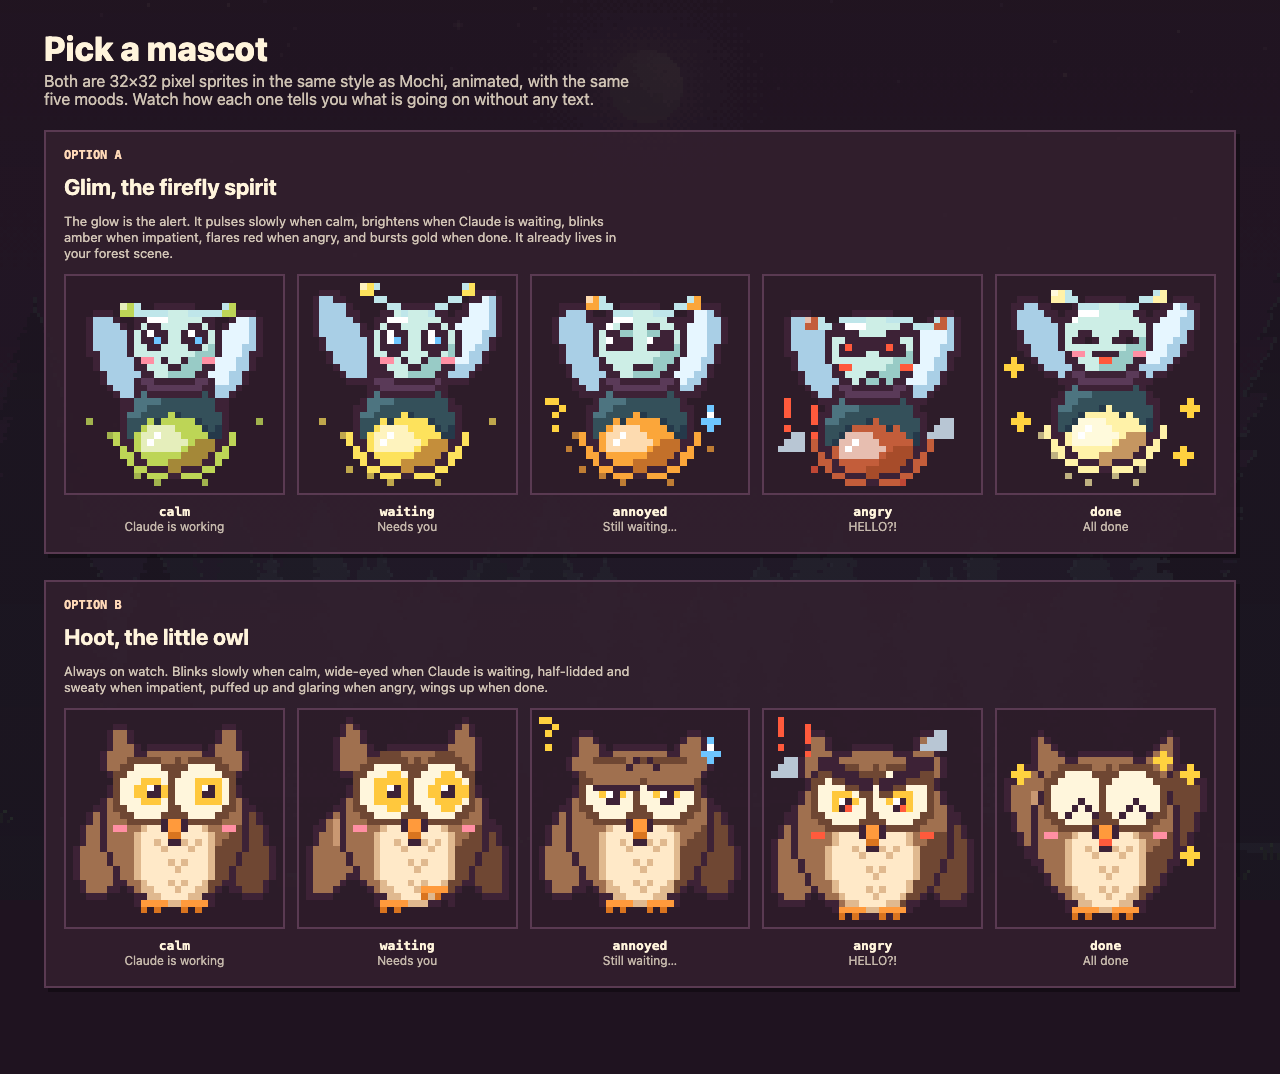
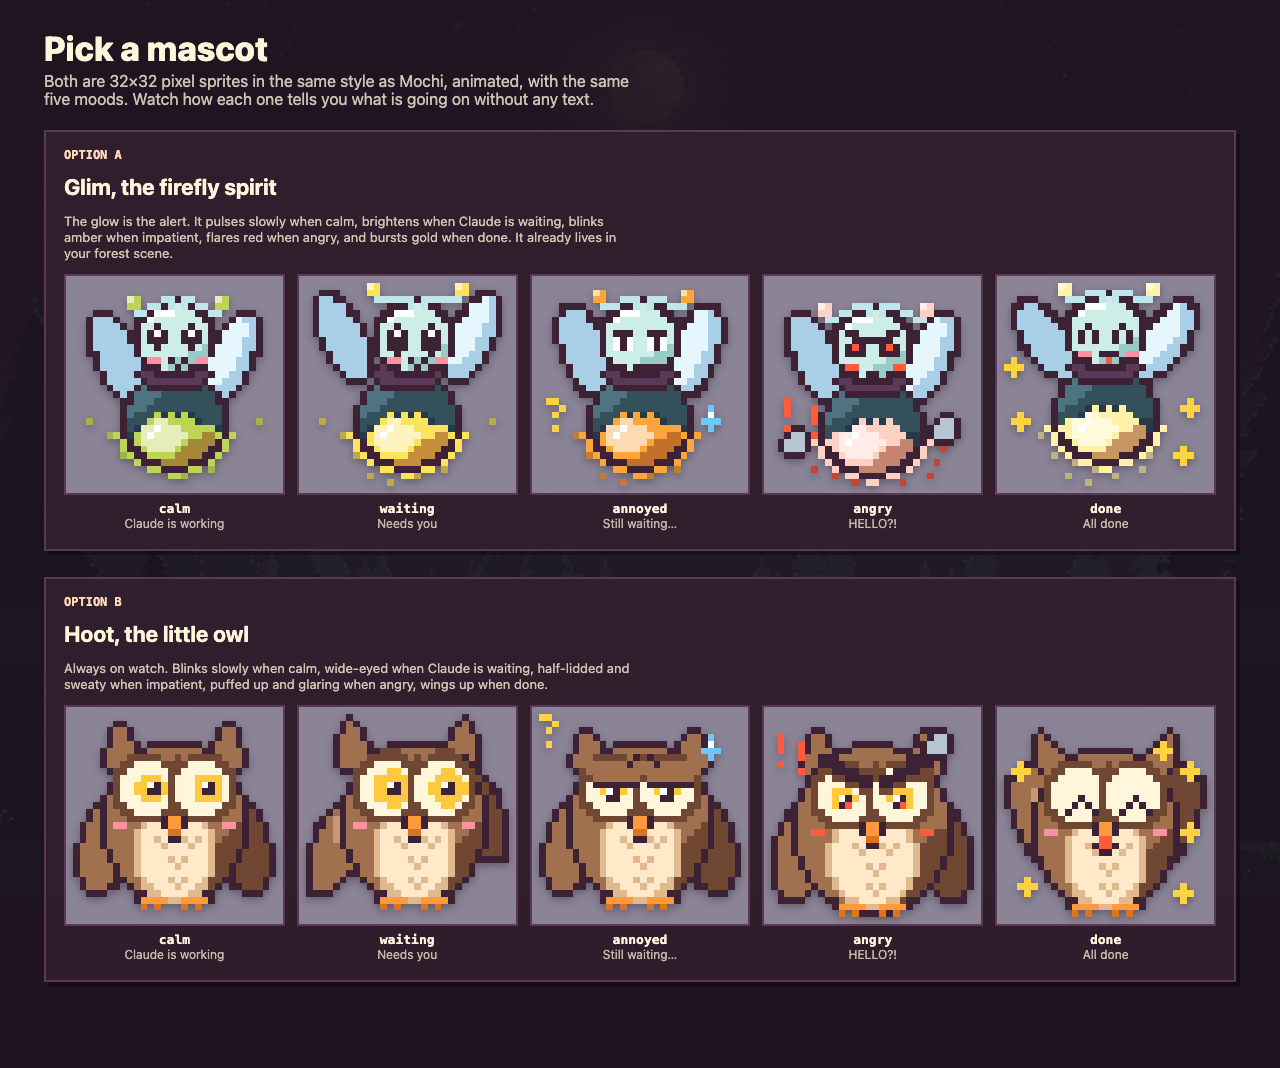
design: mascot round 4 prep, desktop-like preview, Glim/Hoot fixes

Changed region(s): [[0.0312, 0.1545, 0.9688, 0.4635], [0.0312, 0.5871, 0.9688, 0.8961], [0.0312, 0.0309, 0.4688, 0.1236]]

diff --git a/design/mascots/mascots.js b/design/mascots/mascots.js
@@ -50,7 +50,12 @@ class Canvas32 {
   }
   plus(x, y, c) { this.set(x, y, c); this.set(x - 1, y, c); this.set(x + 1, y, c); this.set(x, y - 1, c); this.set(x, y + 1, c); }
   sweat(x, y, c, hi) { this.set(x, y, c); this.set(x, y + 1, c); this.set(x - 1, y + 2, c); this.set(x, y + 2, c); this.set(x + 1, y + 2, c); this.set(x, y + 3, c); this.set(x, y + 1, hi); }
-  puff(x, y, c) { this.rect(x, y, 3, 2, c); this.rect(x + 1, y - 1, 2, 1, c); this.rect(x - 1, y + 1, 1, 1, c); }
+  puff(x, y, c) {   // a small cloud with a plum outline
+    const cells = [[x, y], [x + 1, y], [x + 2, y], [x, y + 1], [x + 1, y + 1], [x + 2, y + 1], [x + 1, y - 1], [x + 2, y - 1]];
+    const set = new Set(cells.map(p => p.join(',')));
+    cells.forEach(([cx2, cy2]) => [[1, 0], [-1, 0], [0, 1], [0, -1]].forEach(([dx, dy]) => { if (!set.has((cx2 + dx) + ',' + (cy2 + dy))) this.set(cx2 + dx, cy2 + dy, 1); }));
+    cells.forEach(([cx2, cy2]) => this.set(cx2, cy2, c));
+  }
 }
 
 // ------------------------------------------------------------------ shared moods
@@ -75,7 +80,8 @@ function drawFirefly(mood, t) {
   const rate = { calm: 1.3, waiting: 3.6, annoyed: 6.5, angry: 11, done: 5 }[mood];
   const pulse = 0.5 + 0.5 * Math.sin(t * rate);
   const done = mood === 'done', angry = mood === 'angry', annoyed = mood === 'annoyed', waiting = mood === 'waiting';
-  const lamp = mix('#6a6238', glow, done ? 1 : waiting ? 0.8 + 0.2 * pulse : 0.3 + 0.7 * pulse);
+  const hotFlash = angry && Math.floor(t * 7) % 2 === 0;
+  const lamp = angry ? (hotFlash ? '#ffd0c4' : '#ff4a3a') : mix('#6a6238', glow, done ? 1 : waiting ? 0.8 + 0.2 * pulse : 0.3 + 0.7 * pulse);
   const pal = [
     null, '#3d2236',
     '#cdeee6', '#ffffff', '#98cbc6',                    // 2 face, 3 face hi, 4 face shade
@@ -92,7 +98,7 @@ function drawFirefly(mood, t) {
   const sh = angry ? (Math.floor(t * 16) % 2 ? 1 : 0) : 0;
   const oy = bob, X = cx + sh;
   const hx = waiting ? 1 : 0;
-  const headCy = 11 + oy, thoraxCy = 16.4 + oy, absCy = 23 + oy;
+  const headCy = 10.2 + oy, thoraxCy = 15.4 + oy, absCy = 22.4 + oy;
 
   // ---- wings (behind). waiting: lifted and flared.
   const flap = Math.sin(t * (angry ? 46 : done ? 24 : mood === 'calm' ? 8 : 15)) > 0;
@@ -104,11 +110,11 @@ function drawFirefly(mood, t) {
       if (c.inRot(x, y, wcx, wcy, rx, ry, tilt)) c.set(x, y, 5);
       else if (c.inRot(x, y, wcx, wcy, rx + 1, ry + 1, tilt)) c.set(x, y, ink);
     }
-    for (let y = 0; y < N; y++) for (let x = 0; x < N; x++) if (c.get(x, y) === 5 && !c.inRot(x, y, wcx - side * 0.7, wcy - 0.7, rx - 0.6, ry - 0.8, tilt)) c.set(x, y, 6);
+    for (let y = 0; y < N; y++) for (let x = 0; x < N; x++) if (c.get(x, y) === 5 && !c.inRot(x, y, wcx - 0.8, wcy - 0.8, rx - 0.6, ry - 0.8, tilt)) c.set(x, y, 6);
   }
 
   // ---- abdomen: dark top, glowing bottom, one outline all the way round
-  const arx = 7, ary = 6.6;
+  const arx = 7, ary = 6.4;
   c.blob(X, absCy, arx, ary, 19, ink);
   for (let y = 0; y < N; y++) for (let x = 0; x < N; x++) if (c.get(x, y) === 19) {
     const dx = (x + 0.5 - X) / arx, dy = (y + 0.5 - absCy) / ary;
@@ -130,57 +136,53 @@ function drawFirefly(mood, t) {
 
   // ---- head: pale and round
   const hcx = X + hx;
-  c.blob(hcx, headCy, 5.9, 5.3, 2, ink);
+  c.blob(hcx, headCy, 5.2, 4.9, 2, ink);
   for (let y = 0; y < N; y++) for (let x = 0; x < N; x++) if (c.get(x, y) === 2) {
-    const dx = (x + 0.5 - hcx) / 5.9, dy = (y + 0.5 - headCy) / 5.3;
+    const dx = (x + 0.5 - hcx) / 5.2, dy = (y + 0.5 - headCy) / 4.9;
     if (dx * 0.6 + dy * 0.8 > 0.58) c.set(x, y, 4);
   }
-  c.rect(Math.round(hcx - 4), Math.round(headCy - 4), 3, 1, 3); c.set(Math.round(hcx - 5), Math.round(headCy - 3), 3);
+  c.rect(Math.round(hcx - 3), Math.round(headCy - 4), 3, 1, 3); c.set(Math.round(hcx - 4), Math.round(headCy - 3), 3);
 
-  // ---- antennae: light stalks from the top of the head to glowing tips
+  // ---- antennae: thin stalks rising from the top centre of the head, curving outward, with glowing bulbs
   const sway = Math.sin(t * 2.6) > 0.25 ? 1 : 0;
-  const up = waiting ? 2 : 0, droop = mood === 'calm' ? 1 : 0, back = angry ? 2 : 0;
+  const up = waiting ? 1 : 0, droop = mood === 'calm' ? 1 : 0, back = angry ? 1 : 0;
+  const topY = Math.round(headCy - 4.9);
   for (const side of [-1, 1]) {
-    const x0 = Math.round(hcx + side * 2.4), y0 = Math.round(headCy - 5.2);
-    const x1 = Math.round(hcx + side * (5.6 + sway + back)), y1 = 5 + oy + back - up + droop;
-    c.line(x0, y0, x1, y1, 23);
+    const x0 = Math.round(hcx + side * 1.2), x1 = Math.round(hcx + side * (4.6 + sway + back));
+    const y1 = 4 + oy + back - up + droop;
+    c.set(x0, topY, 23); c.set(x0 + side * (x0 === hcx ? 1 : 0), topY - 1, 23);
+    c.line(Math.round(hcx + side * 1.6), topY - 1, x1, y1 + 1, 23);
     const tx = side < 0 ? x1 - 1 : x1;
     c.rect(tx, y1 - 1, 2, 2, 7); c.set(tx, y1 - 1, pulse > 0.4 || done ? 8 : 7);
-    c.set(x1 + (side < 0 ? 1 : 0), y1 - 1, 23);   // stalk runs right into the tip
   }
 
-  // ---- face: big dark eyes on the pale face
-  const ey = Math.round(headCy - 3);
-  const eyeL = Math.round(hcx - 5), eyeR = Math.round(hcx + 1);
+  // ---- face: dark eyes straight on the pale face, one catchlight each
+  const ey = Math.round(headCy - 2.6);
+  const eyeL = Math.round(hcx - 4), eyeR = Math.round(hcx + 1);
   const blink = (mood === 'calm' && ((t % 3.6) < 0.14)) || (waiting && ((t % 2.6) < 0.12));
-  function eye(x, h) {
-    c.rect(x, ey, 4, h, ink); c.set(x, ey, 2); c.set(x + 3, ey, 2); c.set(x, ey + h - 1, 2); c.set(x + 3, ey + h - 1, 2);
-    c.set(x + 1, ey + 1, 10); c.set(x + 2, ey + 2, 12);
-    if (h > 4) c.set(x + 1, ey + 2, 10);
-  }
+  function eye(x, h) { c.rect(x, ey, 3, h, ink); c.set(x, ey, 2); c.set(x + 2, ey, 2); c.set(x, ey + h - 1, 2); c.set(x + 2, ey + h - 1, 2); c.set(x + 1, ey + 1, 10); if (h > 3) c.set(x + 1, ey + 2, ink); }
   for (const x of [eyeL, eyeR]) {
-    if (done) { c.set(x, ey + 3, ink); c.set(x + 1, ey + 2, ink); c.set(x + 2, ey + 2, ink); c.set(x + 3, ey + 3, ink); c.set(x + 1, ey + 3, ink); c.set(x + 2, ey + 3, 0); }
-    else if (blink) c.rect(x, ey + 2, 4, 1, ink);
-    else if (annoyed) { c.rect(x, ey + 2, 4, 2, ink); c.set(x, ey + 2, 10); c.rect(x - 0, ey + 1, 4, 1, 4); }
-    else if (angry) { c.rect(x, ey + 1, 4, 3, ink); c.set(x + 1, ey + 2, 14); c.set(x, ey + 1, 2); c.set(x + 3, ey + 1, 2); }
+    if (done) { c.set(x, ey + 2, ink); c.set(x + 1, ey + 1, ink); c.set(x + 2, ey + 2, ink); c.set(x, ey + 3, ink); c.set(x + 2, ey + 3, ink); }
+    else if (blink) c.rect(x, ey + 2, 3, 1, ink);
+    else if (annoyed) { c.rect(x, ey + 1, 3, 1, ink); c.rect(x, ey + 2, 3, 2, 10); c.rect(x + 1, ey + 2, 1, 2, ink); }   // flat lid line, a pupil showing underneath
+    else if (angry) { c.rect(x, ey + 1, 3, 3, ink); c.set(x + 1, ey + 2, 14); c.set(x, ey + 1, 2); c.set(x + 2, ey + 1, 2); }
     else eye(x, waiting ? 5 : 4);
   }
-  if (angry) { c.line(eyeL - 1, ey - 1, eyeL + 4, ey + 1, ink); c.line(eyeL - 1, ey, eyeL + 4, ey + 2, ink); c.line(eyeR + 4, ey - 1, eyeR - 1, ey + 1, ink); c.line(eyeR + 4, ey, eyeR - 1, ey + 2, ink); }
-  if (annoyed) { c.line(eyeL + 3, ey, eyeL, ey + 1, ink); c.line(eyeR, ey, eyeR + 3, ey + 1, ink); }
+  if (angry) { c.line(eyeL - 1, ey - 1, eyeL + 3, ey + 1, ink); c.line(eyeR + 3, ey - 1, eyeR - 1, ey + 1, ink); }
   const cheek = done || mood === 'calm' || waiting ? 11 : angry ? 14 : 0;
-  if (cheek) { c.rect(Math.round(hcx - 5), ey + 5, 2, 1, cheek); c.rect(Math.round(hcx + 4), ey + 5, 2, 1, cheek); }
+  if (cheek) { c.rect(Math.round(hcx - 4), ey + 5, 2, 1, cheek); c.rect(Math.round(hcx + 3), ey + 5, 2, 1, cheek); }
   const my = ey + 5, mx = Math.round(hcx);
-  if (done) { c.rect(mx - 2, my, 4, 1, ink); c.rect(mx - 1, my + 1, 2, 1, 14); }
+  if (done) { c.rect(mx - 1, my, 3, 1, ink); c.rect(mx, my + 1, 1, 1, 14); }
   else if (angry) { c.set(mx - 1, my + 1, ink); c.set(mx, my + 1, ink); c.set(mx - 2, my + 2, ink); c.set(mx + 1, my + 2, ink); }
   else if (annoyed) { c.rect(mx - 1, my + 1, 3, 1, ink); }
-  else { c.set(mx - 2, my, ink); c.set(mx - 1, my + 1, ink); c.set(mx, my + 1, ink); c.set(mx + 1, my, ink); }
+  else { c.set(mx - 1, my, ink); c.set(mx, my + 1, ink); c.set(mx + 1, my, ink); }
 
   // ---- halo: a 1px glow rim right outside the abdomen's lower half, plus sparse outer sparks when bright
-  const haloR = (done ? 3.4 : 0.9 + 2.2 * pulse) + (angry ? 0.7 : 0);
+  const haloR = angry ? 4.6 : (done ? 3.4 : 0.9 + 1.6 * pulse);
   for (let y = 0; y < N; y++) for (let x = 0; x < N; x++) {
     if (y < absCy + 1 || y > 30 || c.get(x, y) !== 0) continue;
     const d = (Math.hypot((x + 0.5 - X) / arx, (y + 0.5 - absCy) / ary) - 1) * 6.8;
-    if (d > 0 && d < 1.9 && pulse > 0.25) c.set(x, y, 7);                                   // solid rim
+    if (d > 0 && d < 1.9 && (pulse > 0.25 || angry)) c.set(x, y, 7);                                   // solid rim
     else if (d >= 1.9 && d < haloR + 1 && (x * 3 + y * 5) % 7 === 0) c.set(x, y, 22);       // sparks
   }
 
@@ -208,7 +210,7 @@ function drawOwl(mood, t) {
   const bob = done ? 0 : angry ? 0 : (Math.sin(t * 2) > 0.5 ? -1 : 0);
   const oy = bob, puff = angry ? 1 : 0;
   const lean = waiting ? 1 : angry ? (Math.floor(t * 14) % 2 ? 1 : 0) : 0;
-  const ruffle = angry ? (Math.floor(t * 9) % 2) : 0;
+  const ruffle = angry ? (Math.floor(t * 8) % 2) : 0;
 
   // ear tufts
   const tuft = (side) => {
@@ -223,7 +225,8 @@ function drawOwl(mood, t) {
   // wings behind: lit from the top left, so the left wing is lighter; tips lift away from the body when waiting
   const wy = done ? 16 : 21;
   for (const side of [-1, 1]) {
-    const cx = 16 + side * (done ? 9.6 : 10 + puff * 0.4 + (waiting ? 0.2 : 0)), cy = wy + oy;
+    const wave = waiting && side === 1 ? (Math.sin(t * 6) > 0 ? -5 : -3) : 0;
+    const cx = 16 + side * (done ? 9.6 : 10 + puff * 0.4 + (waiting ? 0.2 : 0)), cy = wy + oy + wave;
     const shear = waiting ? 0.36 : 0.2, ry = done ? 7.0 : 7.2;
     for (let y = 0; y < N; y++) for (let x = 0; x < N; x++) {
       const lean2 = (y - cy) * shear * side * (done ? -1.3 : 1);
@@ -251,7 +254,7 @@ function drawOwl(mood, t) {
   mk(bx - 2, by + 2); mk(bx + 2, by + 2); mk(bx, by + 5); mk(bx, by + 8);
 
   // feet
-  const tap = waiting && Math.sin(t * 7) > 0 ? -2 : 0;
+  const tap = waiting && Math.sin(t * 12.5) > 0 ? -2 : 0;
   c.rect(bx - 5, by + 11, 4, 1, 9); c.rect(bx + 1, by + 11 + tap, 4, 1, 9);
   [bx - 5, bx - 3].forEach(x => c.set(x, by + 12, 10)); [bx + 1, bx + 3].forEach(x => c.set(x, by + 12 + tap, 10));
   c.rect(bx - 6, by + 11, 1, 1, ink); c.rect(bx + 5, by + 11, 1, 1, ink);
@@ -299,15 +302,15 @@ function drawOwl(mood, t) {
   // beak
   const kx = Math.round(bx), ky = Math.round(by - 1);
   c.rect(kx - 1, ky, 2, 2, 9); c.set(kx - 1, ky + 2, 10); c.set(kx, ky + 2, 10); c.set(kx - 2, ky, ink); c.set(kx + 1, ky, ink); c.set(kx - 2, ky + 1, ink); c.set(kx + 1, ky + 1, ink); c.set(kx - 1, ky + 3, ink); c.set(kx, ky + 3, ink);
-  if (done) { c.rect(kx - 1, ky + 2, 2, 1, 14); }
+  if (done) { c.rect(kx - 1, ky + 2, 2, 2, 14); c.set(kx - 2, ky + 3, ink); c.set(kx + 1, ky + 3, ink); c.set(kx - 1, ky + 4, ink); c.set(kx, ky + 4, ink); }
   // cheeks
   const cc = done || mood === 'calm' || waiting ? 11 : angry ? 14 : 0;
   if (cc) { c.rect(bx - 9, by + 0, 2, 1, cc); c.rect(bx + 7, by + 0, 2, 1, cc); }
 
   // extras
   if (annoyed) { c.sweat(bx + 10, by - 14 + (Math.sin(t * 2) > 0 ? 1 : 0), 12, 16); c.glyph('?', 1, 1, 13); }
-  if (angry) { c.glyph('!', 1, 1 + (Math.floor(t * 8) % 2), 14); c.glyph('!', 5, 1 + (Math.floor(t * 8 + 1) % 2), 14); const s = Math.floor(t * 6) % 2; c.puff(bx + 8, 5 - s, 15); c.puff(2, 9 - s, 15); }
-  if (done) { const k = Math.floor(t * 6); [[3, 8], [28, 9], [4, 20], [28, 21], [24, 6]].forEach(([x, y], i) => { if ((k + i) % 3 !== 0) c.plus(x, y + ((k + i) % 2), 13); }); }
+  if (angry) { c.glyph('!', 1, 4 + (Math.floor(t * 8) % 2), 14); c.glyph('!', 4, 4 + (Math.floor(t * 8 + 1) % 2), 14); const s = Math.floor(t * 6) % 2; c.puff(bx + 8, 6 - s, 15); }
+  if (done) { const k = Math.floor(t * 6); [[3, 8], [28, 9], [3, 18], [28, 18], [24, 5], [6, 4], [27, 26], [4, 26]].forEach(([x, y], i) => { if ((k + i) % 3 !== 0) c.plus(x, y + ((k + i) % 2), 13); }); }
   return { px: c.px, pal };
 }
 

diff --git a/design/mascots/preview.html b/design/mascots/preview.html
@@ -17,7 +17,10 @@
   .row .tag { color: var(--peach); font: 700 12px ui-monospace, "SF Mono", monospace; margin-bottom: 12px; display:block; }
   .moods { display:grid; grid-template-columns: repeat(5, 1fr); gap: 12px; }
   .cell { text-align:center; }
-  canvas { width: 100%; max-width: 224px; aspect-ratio: 1; image-rendering: pixelated; background: rgba(42,26,38,.55); border: 2px solid var(--line); }
+  /* the sprite is shown the way it appears in the app: over arbitrary desktop content, with a light rim and a soft shadow */
+  .stage { width: 100%; max-width: 224px; aspect-ratio: 1; background: #8b8497; border: 2px solid var(--line); margin: 0 auto; }
+  .stage.dark { background: #1f1320; }
+  canvas { display:block; width: 100%; height: 100%; image-rendering: pixelated; filter: drop-shadow(0 0 0.6px rgba(255,255,255,.7)) drop-shadow(0 3px 4px rgba(0,0,0,.3)); }
   .cell b { display:block; margin-top: 6px; font: 800 13px ui-monospace, "SF Mono", monospace; color: var(--paper); }
   .cell i { display:block; font-style: normal; font-size: 12px; color: rgba(255,244,220,.72); }
   .strip { display:flex; gap: 16px; align-items:flex-end; margin-top: 16px; }
@@ -56,8 +59,9 @@ function build(containerId, draw) {
   const root = document.getElementById(containerId);
   for (const mood of MOODLIST) {
     const cell = document.createElement('div'); cell.className = 'cell';
+    const stage = document.createElement('div'); stage.className = 'stage';
     const cv = document.createElement('canvas'); cv.width = N * SCALE; cv.height = N * SCALE;
-    cell.appendChild(cv);
+    stage.appendChild(cv); cell.appendChild(stage);
     cell.insertAdjacentHTML('beforeend', `<b>${mood}</b><i>${NOTES[mood]}</i>`);
     root.appendChild(cell);
     cells.push({ cv, draw, mood });

diff --git a/docs/loops/ledger.md b/docs/loops/ledger.md
@@ -5,3 +5,5 @@
 - mascot art, round 1: reviewer FAIL both. Glim: reads as bee/frog (head too big, no antenna stalks, whole belly glowing), calm~waiting, stray pixels, clipping in done/angry. Hoot: calm~waiting silhouette, annoyed eyes closed, belly dither, done clips, no shake/tap. Fixing all.
 - mascot art, round 2: reviewer FAIL both (Glim 6 fails: reads as gremlin holding a lemon, calm~waiting, dark eyes vanish, doubled outline, halo cut off. Hoot 2 fails: calm lid bar makes calm/waiting/annoyed alike; clipping in done/angry). Root cause found by looking at pixels: antenna stalks were plum-on-plum (invisible); head too dark; lamp drawn as separate oval. Fixing.
 - mascot art, round 3 prep: Glim rebuilt (pale face, light antenna stalks, lamp = bottom of abdomen, rim glow). Hoot: calm eyes open & glancing, no lid bar; wings narrowed. Added design/mascots/check-bounds.mjs (automated verifier for criterion 6): it caught side/bottom/top clipping the eye missed; now passes for every mood at 160 time steps.
+- mascot art, round 3: reviewer FAIL both. Glim 6 fails (antennae read as cat ears, annoyed eyes vanish, wing outline/highlight, eye mask, angry flat/muddy). Hoot 3 fails (waiting~calm, waiting/angry static, done not rewarding). Preview bg was near-plum so plum outlines were invisible: switching preview to a neutral desktop-like grey with the app's rim light + shadow, as Mochi's real popup has.
+- mascot art, round 4 prep: preview now on desktop-like grey with the app's rim light/shadow (outlines read). Glim: narrower head, antenna stalks from head centre with bulbs, simple eyes with catchlight, wing light from top-left, bold flashing red angry lamp with wide halo. Hoot: waiting wave + faster foot tap, outlined puffs, done mouth + more sparkles. check-bounds passes.
